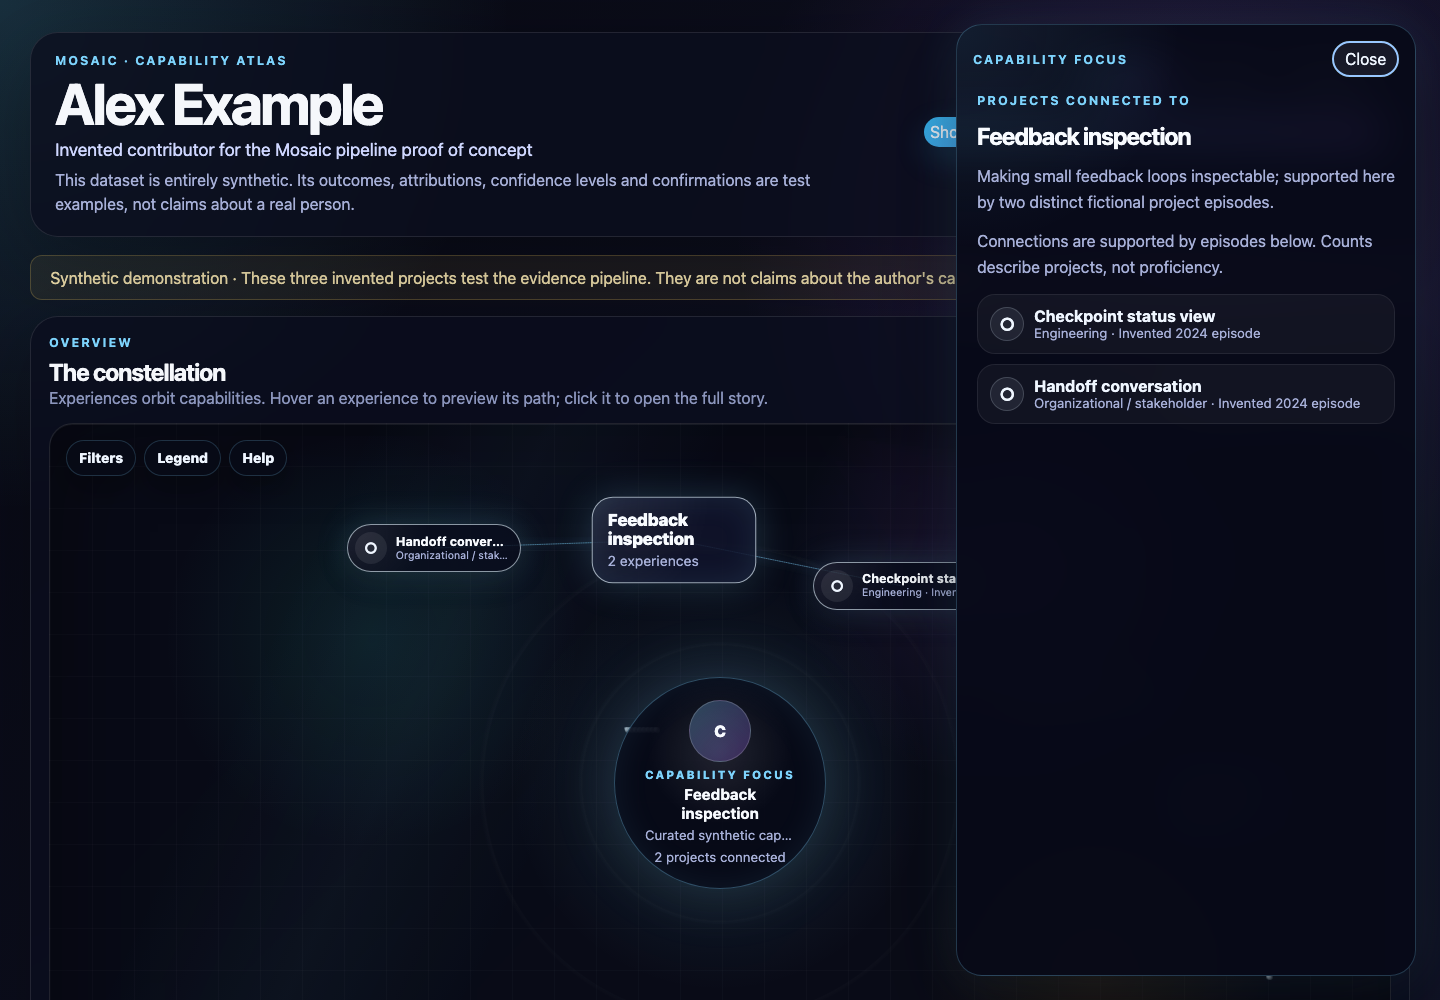
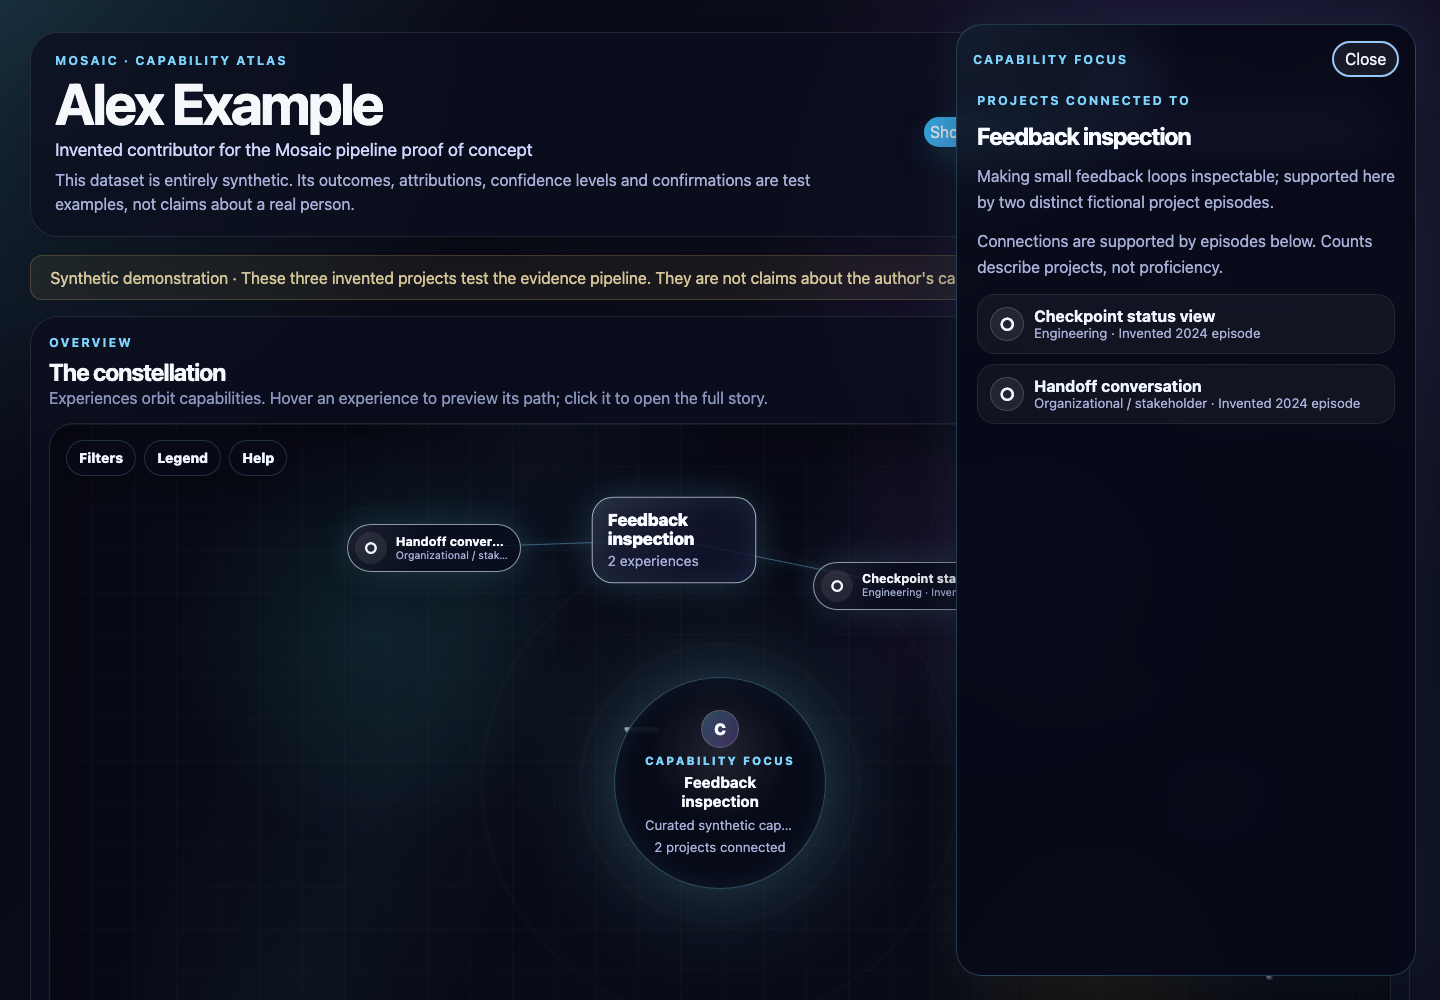
Refresh browser evidence and retain Ubuntu font collision

Changed region(s): [[0.4375, 0.682, 0.5625, 0.868]]

diff --git a/docs/phase1-verification.md b/docs/phase1-verification.md
@@ -1,6 +1,6 @@
 # Phase 1 verification
 
-Bounded review-readiness pass on 10 October 2026 for PR #4. Verified implementation commit: **e898b0192ef1f322fe643dbc602ed9b02d3bed72**. The retained browser provenance identifies this exact clean source revision and SHA-256 hashes of the audited production assets. The subsequent report/screenshot commit changes documentation only; the PR description records the final verified head separately. The original checkout's unfinished V2 UI work remains outside this PR.
+Bounded review-readiness pass on 10 October 2026 for PR #4. Verified implementation commit: **18f574bdeca11db0b7029f32b90bb118201858ed**. The retained browser provenance identifies this exact clean source revision and SHA-256 hashes of the audited production assets. The subsequent report/screenshot commit changes documentation only; the PR description records the final verified head separately. The original checkout's unfinished V2 UI work remains outside this PR.
 
 ## Reproduced findings
 
@@ -14,9 +14,11 @@ Baseline commit: `b4abc5149db50e6cb097f0019c1b881a06148fc3`. Both production vie
 
 [Desktop baseline](screenshots/phase1/baseline-desktop-overview.png), [mobile baseline](screenshots/phase1/baseline-mobile-overview.png), and [baseline measurements](screenshots/phase1/baseline-metrics.json) retain the adverse case. The mobile document itself was 390 px wide; the clipping occurred inside the canvas. The earlier label-spacing verification applied to the desktop slice and did not establish mobile readiness.
 
+A subsequent [Ubuntu hosted CI run](https://github.com/gomercin/mosaic/actions/runs/38010766409) at `e29b1f31f002029c922b6725862d88067ac27d12` retained a second adverse case: desktop default center rows overlapped by 3.4 px with Linux font metrics, even though the Mac check passed. The [CI failure screenshot](screenshots/phase1/ci-ubuntu-desktop-before.png) shows that collision. The geometry assertion was retained; the core text fit was corrected.
+
 ## Targeted changes
 
-At widths up to 760 px, the constellation is replaced by a normal reading view with complete, wrapping capability and project labels. Choosing a capability opens the existing connected-project inspector and filters the reading list to the related projects. Selecting a project opens the existing evidence story. The narrow view avoids both canvas overlap/clipping and the compressed center bubble; it does not revise the desktop layout algorithm or the unfinished V2 design.
+At widths up to 760 px, the constellation is replaced by a normal reading view with complete, wrapping capability and project labels. Choosing a capability opens the existing connected-project inspector and filters the reading list to the related projects. Selecting a project opens the existing evidence story. The narrow view avoids both canvas overlap/clipping and the compressed center bubble; it does not revise the desktop graph positioning algorithm or the unfinished V2 design. For platform font variation, core rows now reserve their intrinsic content height, the helper instruction is shorter, and focused capability/principle monograms are 38 px. The surrounding core and graph dimensions stay fixed.
 
 Both views preserve capability → project → personal contribution → team/existing work and AI assistance → result/limitation → evidence explanation. The stopped stakeholder proposal and the unrun research idea retain their outcome status. Candidate status, low confidence and awaiting confirmation remain visible rather than becoming proficiency claims. No public data, taxonomy, source normalization, or publication approvals changed.
 
@@ -35,7 +37,7 @@ npm run browser:test
 
 `browser:test` first builds and audits `dist/`, then starts a fresh Vite preview at `http://127.0.0.1:4178`. It refuses an existing server. The two Playwright projects use Chromium 156.0.8078.4, device scale factor 1 and reduced motion, at 1440×1000 and 390×844; the narrow project emulates mobile/touch. Generated screenshots, geometry, browser version, Git revision and deploy-asset hashes live under ignored `test-results/`. CI installs Chromium and runs the same suite after its production build/audit, retaining browser artifacts. No browser dependencies or screenshots enter `dist/`.
 
-Both browser journeys passed:
+Both local browser journeys passed from the exact clean implementation commit:
 
 1. Confirm the synthetic notice and exact validated dataset response.
 2. Check overview, selected capability and tentative-project geometry: no intersecting capability/project controls, no controls outside their container, no mobile label fragments outside their buttons, no desktop center-text collisions, and no horizontal document overflow (1 px tolerance).
@@ -66,7 +68,7 @@ The mobile overview screenshot is scrolled to the reading controls; other long c
 
 ## Limits and publication decision
 
-This is a three-project synthetic check in one Chromium build at two fixed viewports. It does not certify a large corpus, all intermediate widths, physical mobile browsers, screen readers, or a complete accessibility audit. The desktop graph retains compact/ellipsized project previews; full stories and mobile reading labels remain available. Phase 2, capability taxonomy decisions and real public content remain outside this pass. Owner review of meaning and information density is still needed before expansion.
+This is a three-project synthetic check in one Chromium build at two fixed viewports, with Mac screenshots and an Ubuntu CI gate. It does not certify a large corpus, all intermediate widths, physical mobile browsers, screen readers, or a complete accessibility audit. The desktop graph retains compact/ellipsized project previews; full stories and mobile reading labels remain available. Phase 2, capability taxonomy decisions and real public content remain outside this pass. Owner review of meaning and information density is still needed before expansion.
 
 **Merging to `main` triggers the current Pages deployment workflow** (`.github/workflows/pages.yml`, push to `main`, plus manual dispatch). A successful workflow publishes the synthetic demo. Before merge, the owner must decide to **publish this synthetic demo through the existing workflow**, or **approve a separate change that separates merge from publication**. This pass does not change Pages/deployment settings. Repository-external Pages/environment approval rules were not inspected.
 
